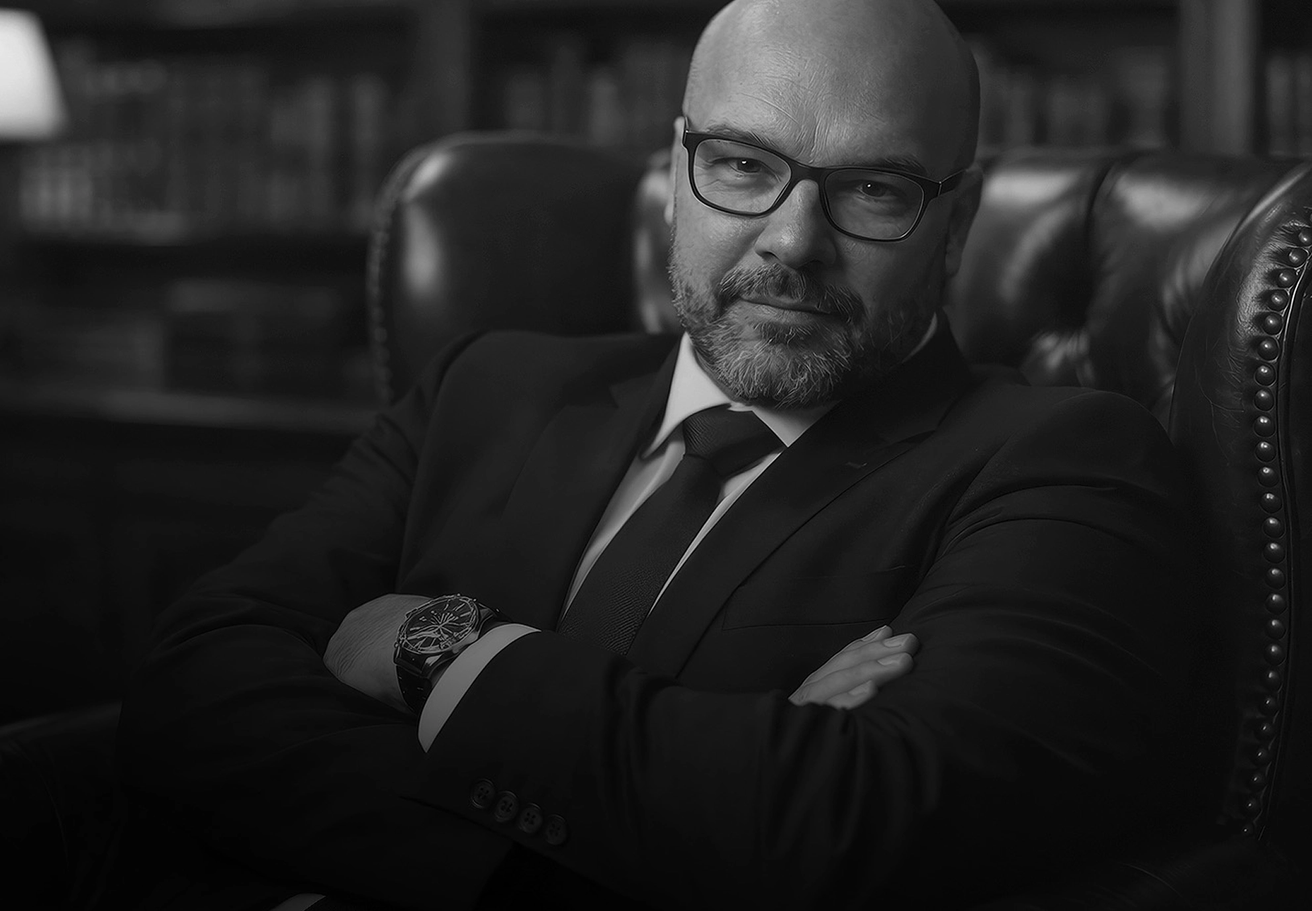
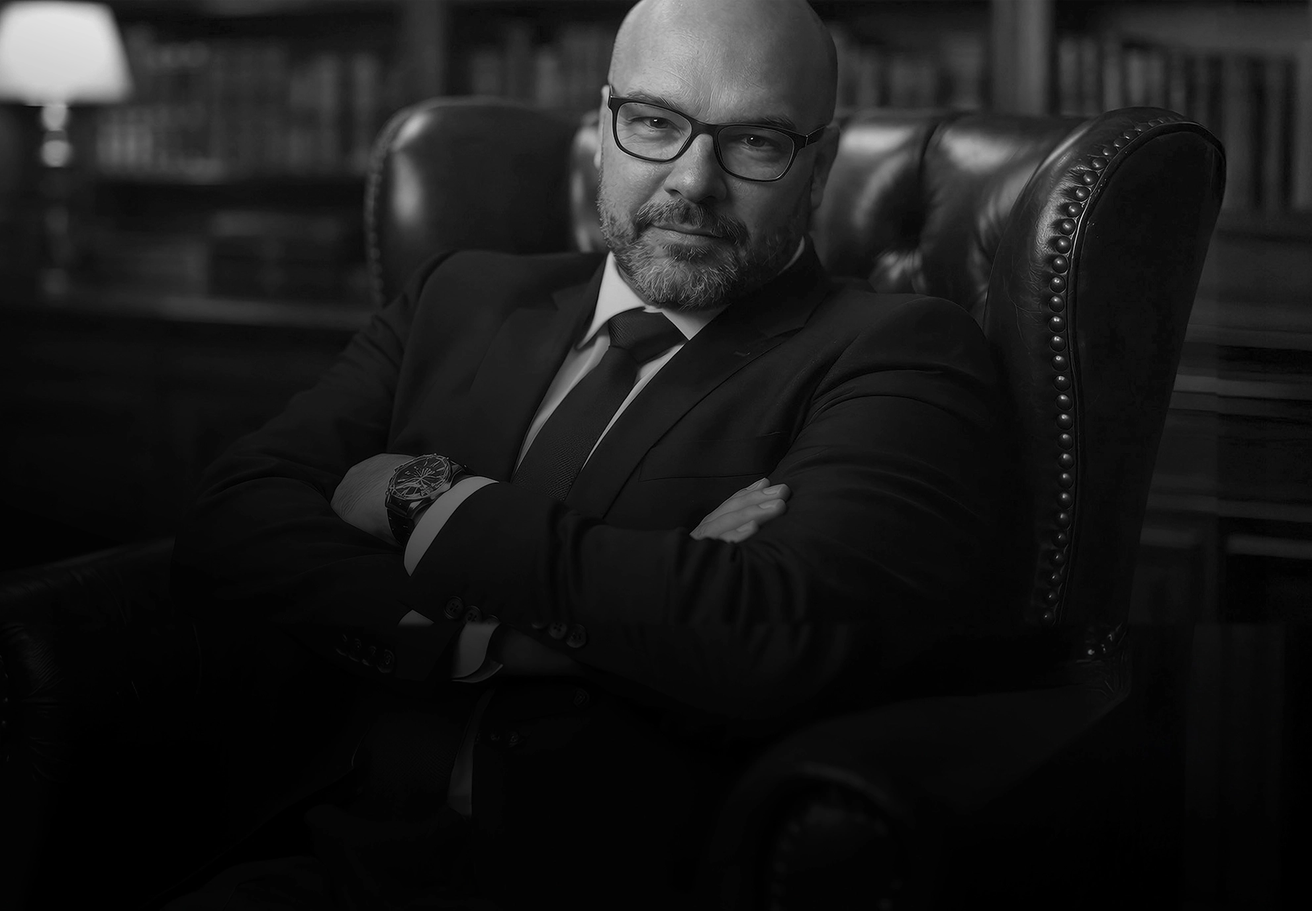
refactor: update responsive design and improve layout structure in index.html and main.css; adjust Tailwind configuration for better styling

diff --git a/dist/main.css b/dist/main.css
@@ -1,2 +1,2 @@
 /*! tailwindcss v4.2.2 | MIT License | https://tailwindcss.com */
-@layer properties{@supports (((-webkit-hyphens:none)) and (not (margin-trim:inline))) or ((-moz-orient:inline) and (not (color:rgb(from red r g b)))){*,:before,:after,::backdrop{--tw-border-style:solid;--tw-font-weight:initial;--tw-tracking:initial}}}@layer theme{:root,:host{--font-sans:ui-sans-serif, system-ui, sans-serif, "Apple Color Emoji", "Segoe UI Emoji", "Segoe UI Symbol", "Noto Color Emoji";--font-mono:ui-monospace, SFMono-Regular, Menlo, Monaco, Consolas, "Liberation Mono", "Courier New", monospace;--color-white:#fff;--spacing:.25rem;--container-xl:36rem;--font-weight-normal:400;--font-weight-medium:500;--font-weight-semibold:600;--font-weight-bold:700;--radius-lg:.5rem;--default-font-family:var(--font-sans);--default-mono-font-family:var(--font-mono)}}@layer base{*,:after,:before,::backdrop{box-sizing:border-box;border:0 solid;margin:0;padding:0}::file-selector-button{box-sizing:border-box;border:0 solid;margin:0;padding:0}html,:host{-webkit-text-size-adjust:100%;tab-size:4;line-height:1.5;font-family:var(--default-font-family,ui-sans-serif, system-ui, sans-serif, "Apple Color Emoji", "Segoe UI Emoji", "Segoe UI Symbol", "Noto Color Emoji");font-feature-settings:var(--default-font-feature-settings,normal);font-variation-settings:var(--default-font-variation-settings,normal);-webkit-tap-highlight-color:transparent}hr{height:0;color:inherit;border-top-width:1px}abbr:where([title]){-webkit-text-decoration:underline dotted;text-decoration:underline dotted}h1,h2,h3,h4,h5,h6{font-size:inherit;font-weight:inherit}a{color:inherit;-webkit-text-decoration:inherit;-webkit-text-decoration:inherit;-webkit-text-decoration:inherit;text-decoration:inherit}b,strong{font-weight:bolder}code,kbd,samp,pre{font-family:var(--default-mono-font-family,ui-monospace, SFMono-Regular, Menlo, Monaco, Consolas, "Liberation Mono", "Courier New", monospace);font-feature-settings:var(--default-mono-font-feature-settings,normal);font-variation-settings:var(--default-mono-font-variation-settings,normal);font-size:1em}small{font-size:80%}sub,sup{vertical-align:baseline;font-size:75%;line-height:0;position:relative}sub{bottom:-.25em}sup{top:-.5em}table{text-indent:0;border-color:inherit;border-collapse:collapse}:-moz-focusring{outline:auto}progress{vertical-align:baseline}summary{display:list-item}ol,ul,menu{list-style:none}img,svg,video,canvas,audio,iframe,embed,object{vertical-align:middle;display:block}img,video{max-width:100%;height:auto}button,input,select,optgroup,textarea{font:inherit;font-feature-settings:inherit;font-variation-settings:inherit;letter-spacing:inherit;color:inherit;opacity:1;background-color:#0000;border-radius:0}::file-selector-button{font:inherit;font-feature-settings:inherit;font-variation-settings:inherit;letter-spacing:inherit;color:inherit;opacity:1;background-color:#0000;border-radius:0}:where(select:is([multiple],[size])) optgroup{font-weight:bolder}:where(select:is([multiple],[size])) optgroup option{padding-inline-start:20px}::file-selector-button{margin-inline-end:4px}::placeholder{opacity:1}@supports (not ((-webkit-appearance:-apple-pay-button))) or (contain-intrinsic-size:1px){::placeholder{color:currentColor}@supports (color:color-mix(in lab, red, red)){::placeholder{color:color-mix(in oklab, currentcolor 50%, transparent)}}}textarea{resize:vertical}::-webkit-search-decoration{-webkit-appearance:none}::-webkit-date-and-time-value{min-height:1lh;text-align:inherit}::-webkit-datetime-edit{display:inline-flex}::-webkit-datetime-edit-fields-wrapper{padding:0}::-webkit-datetime-edit{padding-block:0}::-webkit-datetime-edit-year-field{padding-block:0}::-webkit-datetime-edit-month-field{padding-block:0}::-webkit-datetime-edit-day-field{padding-block:0}::-webkit-datetime-edit-hour-field{padding-block:0}::-webkit-datetime-edit-minute-field{padding-block:0}::-webkit-datetime-edit-second-field{padding-block:0}::-webkit-datetime-edit-millisecond-field{padding-block:0}::-webkit-datetime-edit-meridiem-field{padding-block:0}::-webkit-calendar-picker-indicator{line-height:1}:-moz-ui-invalid{box-shadow:none}button,input:where([type=button],[type=reset],[type=submit]){appearance:button}::file-selector-button{appearance:button}::-webkit-inner-spin-button{height:auto}::-webkit-outer-spin-button{height:auto}[hidden]:where(:not([hidden=until-found])){display:none!important}}@layer components;@layer utilities{.start{inset-inline-start:var(--spacing)}.mx-auto{margin-inline:auto}.mt-1{margin-top:calc(var(--spacing) * 1)}.mt-3{margin-top:calc(var(--spacing) * 3)}.mt-6{margin-top:calc(var(--spacing) * 6)}.mt-8{margin-top:calc(var(--spacing) * 8)}.mr-2{margin-right:calc(var(--spacing) * 2)}.mb-0{margin-bottom:calc(var(--spacing) * 0)}.mb-0\!{margin-bottom:calc(var(--spacing) * 0)!important}.mb-1{margin-bottom:calc(var(--spacing) * 1)}.mb-2{margin-bottom:calc(var(--spacing) * 2)}.mb-2\.5{margin-bottom:calc(var(--spacing) * 2.5)}.mb-4{margin-bottom:calc(var(--spacing) * 4)}.mb-5{margin-bottom:calc(var(--spacing) * 5)}.mb-6{margin-bottom:calc(var(--spacing) * 6)}.mb-8{margin-bottom:calc(var(--spacing) * 8)}.mb-10{margin-bottom:calc(var(--spacing) * 10)}.flex{display:flex}.hidden{display:none}.min-h-172{min-height:calc(var(--spacing) * 172)}.max-w-275{max-width:calc(var(--spacing) * 275)}.max-w-xl{max-width:var(--container-xl)}.shrink-0{flex-shrink:0}.items-center{align-items:center}.justify-between{justify-content:space-between}.gap-2{gap:calc(var(--spacing) * 2)}.overflow-hidden{overflow:hidden}.border{border-style:var(--tw-border-style);border-width:1px}.bg-brand-gray{background-color:#f2f2f2}.bg-brand-gray-dark{background-color:#4f4f4f}.bg-brand-gray-mid{background-color:#e0e0e0}.bg-white{background-color:var(--color-white)}.px-8{padding-inline:calc(var(--spacing) * 8)}.py-12{padding-block:calc(var(--spacing) * 12)}.pt-84{padding-top:calc(var(--spacing) * 84)}.pb-12{padding-bottom:calc(var(--spacing) * 12)}.font-inter{font-family:Inter,system-ui,-apple-system}.text-h1{font-size:40px;line-height:var(--tw-leading,48px);font-weight:var(--tw-font-weight,700)}.text-h2{font-size:32px;line-height:var(--tw-leading,38px);font-weight:var(--tw-font-weight,700)}.text-h3{font-size:24px;line-height:var(--tw-leading,32px);font-weight:var(--tw-font-weight,700)}.text-h4{font-size:18px;line-height:var(--tw-leading,28px);font-weight:var(--tw-font-weight,600)}.text-h6{font-size:14px;line-height:var(--tw-leading,20px);font-weight:var(--tw-font-weight,500)}.text-body{font-size:16px;line-height:var(--tw-leading,24px)}.text-caption{font-size:12px;line-height:var(--tw-leading,20px)}.font-bold{--tw-font-weight:var(--font-weight-bold);font-weight:var(--font-weight-bold)}.font-normal{--tw-font-weight:var(--font-weight-normal);font-weight:var(--font-weight-normal)}.font-semibold{--tw-font-weight:var(--font-weight-semibold);font-weight:var(--font-weight-semibold)}.tracking-\[0\.1px\]{--tw-tracking:.1px;letter-spacing:.1px}.text-brand-dark{color:#333}.text-brand-gray-dark{color:#4f4f4f}.text-white{color:var(--color-white)}.underline{text-decoration-line:underline}@media (hover:hover){.hover\:text-brand-green:hover{color:#219653}.hover\:underline:hover{text-decoration-line:underline}}@media (min-width:62rem){.stage2\:-order-1{order:calc(1 * -1)}.stage2\:mt-0{margin-top:calc(var(--spacing) * 0)}.stage2\:mr-2{margin-right:calc(var(--spacing) * 2)}.stage2\:block{display:block}.stage2\:hidden{display:none}.stage2\:h-6{height:calc(var(--spacing) * 6)}.stage2\:w-6{width:calc(var(--spacing) * 6)}.stage2\:max-w-1\/2{max-width:50%}.stage2\:justify-normal{justify-content:normal}}}.header{background-image:-webkit-image-set(url(../images/header-mobile-991px.webp?v=1) 1x,url(../images/header-mobile-991px-ret.webp?v=1) 2x);background-image:image-set("../images/header-mobile-991px.webp?v=1" 1x,"../images/header-mobile-991px-ret.webp?v=1" 2x);background-position:50%;background-repeat:no-repeat;background-size:cover}@media (min-width:62rem){.header{background-image:-webkit-image-set(url(../images/header-desktop-1920px.webp?v=1) 1x,url(../images/header-desktop-1920px-ret.webp?v=1) 2x);background-image:image-set("../images/header-desktop-1920px.webp?v=1" 1x,"../images/header-desktop-1920px-ret.webp?v=1" 2x)}.header-inner{max-width:30%}}.badge{margin-right:calc(var(--spacing) * 2);border-radius:var(--radius-lg);padding-inline:calc(var(--spacing) * 3);padding-block:calc(var(--spacing) * 1);font-size:14px;line-height:var(--tw-leading,20px);font-weight:var(--tw-font-weight,500);--tw-font-weight:var(--font-weight-medium);font-weight:var(--font-weight-medium);display:inline-block}.badge:last-child{margin-right:calc(var(--spacing) * 0)}.badge{background-color:#21965366}.card{margin-bottom:calc(var(--spacing) * 6);border-radius:var(--radius-lg);border-style:var(--tw-border-style);background-color:var(--color-white);padding:calc(var(--spacing) * 6);padding-top:calc(var(--spacing) * 8);padding-bottom:calc(var(--spacing) * 12);border-width:1px;border-color:#219653}.card.primary{background-color:#2dcb481a}.button{border-radius:var(--radius-lg);padding-inline:calc(var(--spacing) * 5);padding-block:calc(var(--spacing) * 3);font-size:16px;line-height:var(--tw-leading,24px);font-weight:var(--tw-font-weight,600);--tw-font-weight:var(--font-weight-medium);font-weight:var(--font-weight-medium);color:var(--color-white);background-color:#219653;transition:background-color .2s;display:inline-block}.button:hover{background-color:#00642b}.bullet-list{padding-left:0;list-style:none}.bullet-list li{padding-left:1.5rem;position:relative}.bullet-list li:before{content:"»";color:#219653;position:absolute;left:0}.text-text{font-size:16px;line-height:var(--tw-leading,24px);--tw-tracking:.1px;letter-spacing:.1px;color:#333}.chess-image{background-image:-webkit-image-set(url(../images/chess-mobile-991px.webp?v=1) 1x,url(../images/chess-mobile-991px-ret.webp?v=1) 2x);background-image:image-set("../images/chess-mobile-991px.webp?v=1" 1x,"../images/chess-mobile-991px-ret.webp?v=1" 2x);background-position:50%;background-repeat:no-repeat;background-size:cover;width:100%;min-height:360px}@media (min-width:62rem){.chess-image{background-image:-webkit-image-set(url(../images/chess-desktop-1920px.webp?v=1) 1x,url(../images/chess-desktop-1920px-ret.webp?v=1) 2x);background-image:image-set("../images/chess-desktop-1920px.webp?v=1" 1x,"../images/chess-desktop-1920px-ret.webp?v=1" 2x);min-height:100%}}.seal-image{background-image:-webkit-image-set(url(../images/seal-desktop-1920px.webp?v=1) 1x,url(../images/seal-desktop-1920px-ret.webp?v=1) 2x);background-image:image-set("../images/seal-desktop-1920px.webp?v=1" 1x,"../images/seal-desktop-1920px-ret.webp?v=1" 2x);background-position:50%;background-repeat:no-repeat;background-size:contain;width:100%;min-height:400px}@media (min-width:62rem){.seal-image{background-size:85%;min-height:380px}}.section-inner{max-width:calc(var(--spacing) * 275);margin-inline:auto}.bio-layout{display:block}@media (min-width:62rem){.bio-layout{grid-template-columns:1fr 1fr;align-items:stretch;gap:0;display:grid}}.services-grid{grid-template-columns:1fr;gap:1.5rem;display:grid}@media (min-width:40rem){.services-grid{grid-template-columns:repeat(2,1fr)}}@media (min-width:62rem){.services-grid{grid-template-columns:repeat(4,1fr)}.services-grid .card{margin-bottom:0}}.process-grid{grid-template-columns:1fr;gap:1.5rem;display:grid}@media (min-width:62rem){.process-grid{grid-template-columns:repeat(3,1fr)}.process-grid .card{margin-bottom:0}}.fees-layout{display:block}@media (min-width:62rem){.fees-layout{grid-template-columns:1fr 1fr;align-items:center;gap:4rem;display:grid}}.contact-grid{display:block}@media (min-width:62rem){.contact-grid{grid-template-columns:repeat(3,1fr);gap:3rem;display:grid}}@property --tw-border-style{syntax:"*";inherits:false;initial-value:solid}@property --tw-font-weight{syntax:"*";inherits:false}@property --tw-tracking{syntax:"*";inherits:false}
+@layer properties{@supports (((-webkit-hyphens:none)) and (not (margin-trim:inline))) or ((-moz-orient:inline) and (not (color:rgb(from red r g b)))){*,:before,:after,::backdrop{--tw-border-style:solid;--tw-font-weight:initial;--tw-tracking:initial}}}@layer theme{:root,:host{--font-sans:ui-sans-serif, system-ui, sans-serif, "Apple Color Emoji", "Segoe UI Emoji", "Segoe UI Symbol", "Noto Color Emoji";--font-mono:ui-monospace, SFMono-Regular, Menlo, Monaco, Consolas, "Liberation Mono", "Courier New", monospace;--color-white:#fff;--spacing:.25rem;--font-weight-normal:400;--font-weight-medium:500;--font-weight-semibold:600;--font-weight-bold:700;--radius-lg:.5rem;--default-font-family:var(--font-sans);--default-mono-font-family:var(--font-mono)}}@layer base{*,:after,:before,::backdrop{box-sizing:border-box;border:0 solid;margin:0;padding:0}::file-selector-button{box-sizing:border-box;border:0 solid;margin:0;padding:0}html,:host{-webkit-text-size-adjust:100%;tab-size:4;line-height:1.5;font-family:var(--default-font-family,ui-sans-serif, system-ui, sans-serif, "Apple Color Emoji", "Segoe UI Emoji", "Segoe UI Symbol", "Noto Color Emoji");font-feature-settings:var(--default-font-feature-settings,normal);font-variation-settings:var(--default-font-variation-settings,normal);-webkit-tap-highlight-color:transparent}hr{height:0;color:inherit;border-top-width:1px}abbr:where([title]){-webkit-text-decoration:underline dotted;text-decoration:underline dotted}h1,h2,h3,h4,h5,h6{font-size:inherit;font-weight:inherit}a{color:inherit;-webkit-text-decoration:inherit;-webkit-text-decoration:inherit;-webkit-text-decoration:inherit;text-decoration:inherit}b,strong{font-weight:bolder}code,kbd,samp,pre{font-family:var(--default-mono-font-family,ui-monospace, SFMono-Regular, Menlo, Monaco, Consolas, "Liberation Mono", "Courier New", monospace);font-feature-settings:var(--default-mono-font-feature-settings,normal);font-variation-settings:var(--default-mono-font-variation-settings,normal);font-size:1em}small{font-size:80%}sub,sup{vertical-align:baseline;font-size:75%;line-height:0;position:relative}sub{bottom:-.25em}sup{top:-.5em}table{text-indent:0;border-color:inherit;border-collapse:collapse}:-moz-focusring{outline:auto}progress{vertical-align:baseline}summary{display:list-item}ol,ul,menu{list-style:none}img,svg,video,canvas,audio,iframe,embed,object{vertical-align:middle;display:block}img,video{max-width:100%;height:auto}button,input,select,optgroup,textarea{font:inherit;font-feature-settings:inherit;font-variation-settings:inherit;letter-spacing:inherit;color:inherit;opacity:1;background-color:#0000;border-radius:0}::file-selector-button{font:inherit;font-feature-settings:inherit;font-variation-settings:inherit;letter-spacing:inherit;color:inherit;opacity:1;background-color:#0000;border-radius:0}:where(select:is([multiple],[size])) optgroup{font-weight:bolder}:where(select:is([multiple],[size])) optgroup option{padding-inline-start:20px}::file-selector-button{margin-inline-end:4px}::placeholder{opacity:1}@supports (not ((-webkit-appearance:-apple-pay-button))) or (contain-intrinsic-size:1px){::placeholder{color:currentColor}@supports (color:color-mix(in lab, red, red)){::placeholder{color:color-mix(in oklab, currentcolor 50%, transparent)}}}textarea{resize:vertical}::-webkit-search-decoration{-webkit-appearance:none}::-webkit-date-and-time-value{min-height:1lh;text-align:inherit}::-webkit-datetime-edit{display:inline-flex}::-webkit-datetime-edit-fields-wrapper{padding:0}::-webkit-datetime-edit{padding-block:0}::-webkit-datetime-edit-year-field{padding-block:0}::-webkit-datetime-edit-month-field{padding-block:0}::-webkit-datetime-edit-day-field{padding-block:0}::-webkit-datetime-edit-hour-field{padding-block:0}::-webkit-datetime-edit-minute-field{padding-block:0}::-webkit-datetime-edit-second-field{padding-block:0}::-webkit-datetime-edit-millisecond-field{padding-block:0}::-webkit-datetime-edit-meridiem-field{padding-block:0}::-webkit-calendar-picker-indicator{line-height:1}:-moz-ui-invalid{box-shadow:none}button,input:where([type=button],[type=reset],[type=submit]){appearance:button}::file-selector-button{appearance:button}::-webkit-inner-spin-button{height:auto}::-webkit-outer-spin-button{height:auto}[hidden]:where(:not([hidden=until-found])){display:none!important}}@layer components;@layer utilities{.start{inset-inline-start:var(--spacing)}.mx-auto{margin-inline:auto}.mt-1{margin-top:calc(var(--spacing) * 1)}.mt-3{margin-top:calc(var(--spacing) * 3)}.mt-4{margin-top:calc(var(--spacing) * 4)}.mt-6{margin-top:calc(var(--spacing) * 6)}.mt-8{margin-top:calc(var(--spacing) * 8)}.mr-2{margin-right:calc(var(--spacing) * 2)}.mb-0{margin-bottom:calc(var(--spacing) * 0)}.mb-0\!{margin-bottom:calc(var(--spacing) * 0)!important}.mb-1{margin-bottom:calc(var(--spacing) * 1)}.mb-2{margin-bottom:calc(var(--spacing) * 2)}.mb-2\.5{margin-bottom:calc(var(--spacing) * 2.5)}.mb-4{margin-bottom:calc(var(--spacing) * 4)}.mb-5{margin-bottom:calc(var(--spacing) * 5)}.mb-6{margin-bottom:calc(var(--spacing) * 6)}.mb-8{margin-bottom:calc(var(--spacing) * 8)}.mb-10{margin-bottom:calc(var(--spacing) * 10)}.flex{display:flex}.hidden{display:none}.min-h-172{min-height:calc(var(--spacing) * 172)}.max-w-275{max-width:calc(var(--spacing) * 275)}.shrink-0{flex-shrink:0}.items-center{align-items:center}.justify-between{justify-content:space-between}.gap-2{gap:calc(var(--spacing) * 2)}.overflow-hidden{overflow:hidden}.border{border-style:var(--tw-border-style);border-width:1px}.bg-brand-gray{background-color:#f2f2f2}.bg-brand-gray-dark{background-color:#4f4f4f}.bg-brand-gray-mid{background-color:#e0e0e0}.bg-white{background-color:var(--color-white)}.px-8{padding-inline:calc(var(--spacing) * 8)}.py-12{padding-block:calc(var(--spacing) * 12)}.pt-84{padding-top:calc(var(--spacing) * 84)}.pb-12{padding-bottom:calc(var(--spacing) * 12)}.font-inter{font-family:Inter,system-ui,-apple-system}.text-h2{font-size:32px;line-height:var(--tw-leading,38px);font-weight:var(--tw-font-weight,700)}.text-h3{font-size:24px;line-height:var(--tw-leading,32px);font-weight:var(--tw-font-weight,700)}.text-h4{font-size:18px;line-height:var(--tw-leading,28px);font-weight:var(--tw-font-weight,600)}.text-h6{font-size:14px;line-height:var(--tw-leading,20px);font-weight:var(--tw-font-weight,500)}.text-body{font-size:16px;line-height:var(--tw-leading,24px)}.text-caption{font-size:12px;line-height:var(--tw-leading,20px)}.font-bold{--tw-font-weight:var(--font-weight-bold);font-weight:var(--font-weight-bold)}.font-normal{--tw-font-weight:var(--font-weight-normal);font-weight:var(--font-weight-normal)}.font-semibold{--tw-font-weight:var(--font-weight-semibold);font-weight:var(--font-weight-semibold)}.tracking-\[0\.1px\]{--tw-tracking:.1px;letter-spacing:.1px}.text-brand-dark{color:#333}.text-brand-gray-dark{color:#4f4f4f}.text-white{color:var(--color-white)}.underline{text-decoration-line:underline}@media (hover:hover){.hover\:text-brand-green:hover{color:#219653}.hover\:underline:hover{text-decoration-line:underline}}@media (min-width:992px){.stage2\:-order-1{order:calc(1 * -1)}.stage2\:my-12{margin-block:calc(var(--spacing) * 12)}.stage2\:mr-2{margin-right:calc(var(--spacing) * 2)}.stage2\:block{display:block}.stage2\:hidden{display:none}.stage2\:h-6{height:calc(var(--spacing) * 6)}.stage2\:w-6{width:calc(var(--spacing) * 6)}.stage2\:max-w-1\/2{max-width:50%}.stage2\:justify-normal{justify-content:normal}.stage2\:px-16{padding-inline:calc(var(--spacing) * 16)}.stage2\:text-display{font-size:56px;line-height:var(--tw-leading,65px);letter-spacing:var(--tw-tracking,-1px);font-weight:var(--tw-font-weight,700)}}@media (min-width:1440px){.special\:px-0{padding-inline:calc(var(--spacing) * 0)}}}.header{background-image:-webkit-image-set(url(../images/header-mobile-991px.webp?v=1) 1x,url(../images/header-mobile-991px-ret.webp?v=1) 2x);background-image:image-set("../images/header-mobile-991px.webp?v=1" 1x,"../images/header-mobile-991px-ret.webp?v=1" 2x);background-position:50%;background-repeat:no-repeat;background-size:cover}@media (min-width:62rem){.header{background-image:-webkit-image-set(url(../images/header-desktop-1920px.webp?v=1) 1x,url(../images/header-desktop-1920px-ret.webp?v=1) 2x);background-image:image-set("../images/header-desktop-1920px.webp?v=1" 1x,"../images/header-desktop-1920px-ret.webp?v=1" 2x)}.header-inner{max-width:30%}}.badge{margin-right:calc(var(--spacing) * 2);border-radius:var(--radius-lg);padding-inline:calc(var(--spacing) * 3);padding-block:calc(var(--spacing) * 1);font-size:14px;line-height:var(--tw-leading,20px);font-weight:var(--tw-font-weight,500);--tw-font-weight:var(--font-weight-medium);font-weight:var(--font-weight-medium);display:inline-block}.badge:last-child{margin-right:calc(var(--spacing) * 0)}.badge{background-color:#21965366}.card{border-radius:var(--radius-lg);border-style:var(--tw-border-style);background-color:var(--color-white);padding:calc(var(--spacing) * 6);padding-top:calc(var(--spacing) * 8);padding-bottom:calc(var(--spacing) * 12);border-width:1px;border-color:#219653}.card.primary{background-color:#2dcb481a}.button{border-radius:var(--radius-lg);padding-inline:calc(var(--spacing) * 5);padding-block:calc(var(--spacing) * 3);font-size:16px;line-height:var(--tw-leading,24px);font-weight:var(--tw-font-weight,600);--tw-font-weight:var(--font-weight-medium);font-weight:var(--font-weight-medium);color:var(--color-white);background-color:#219653;transition:background-color .2s;display:inline-block}.button:hover{background-color:#00642b}.bullet-list{padding-left:0;list-style:none}.bullet-list li{padding-left:1.5rem;position:relative}.bullet-list li:before{content:"»";color:#219653;position:absolute;left:0}.text-text{font-size:16px;line-height:var(--tw-leading,24px);--tw-tracking:.1px;letter-spacing:.1px;color:#333}.chess-image{background-image:-webkit-image-set(url(../images/chess-mobile-991px.webp?v=1) 1x,url(../images/chess-mobile-991px-ret.webp?v=1) 2x);background-image:image-set("../images/chess-mobile-991px.webp?v=1" 1x,"../images/chess-mobile-991px-ret.webp?v=1" 2x);background-position:50%;background-repeat:no-repeat;background-size:cover;width:100%;min-height:360px}@media (min-width:992px){.chess-image-desktop{background-image:-webkit-image-set(url(../images/chess-desktop-1920px.webp?v=1) 1x,url(../images/chess-desktop-1920px-ret.webp?v=1) 2x);background-image:image-set("../images/chess-desktop-1920px.webp?v=1" 1x,"../images/chess-desktop-1920px-ret.webp?v=1" 2x);background-position:50%;background-repeat:no-repeat;width:100%;min-height:465px}}.seal-image-desktop{background-position:50%;background-repeat:no-repeat;width:100%}@media (min-width:992px){.seal-image-desktop{background-image:-webkit-image-set(url(../images/seal-desktop-1920px.webp?v=1) 1x,url(../images/seal-desktop-1920px-ret.webp?v=1) 2x);background-image:image-set("../images/seal-desktop-1920px.webp?v=1" 1x,"../images/seal-desktop-1920px-ret.webp?v=1" 2x);min-height:430px}}.section-inner{max-width:calc(var(--spacing) * 275);margin-inline:auto}.bio-layout{display:block}@media (min-width:992px){.bio-text{max-width:calc(var(--spacing) * 105)}}@media (min-width:1440px){@media (min-width:992px){.bio-text{max-width:calc(var(--spacing) * 135)}}}.services-grid{grid-template-columns:1fr;gap:24px;display:grid}@media (min-width:992px){.services-grid{grid-template-columns:repeat(2,1fr)}}@media (min-width:1440px){.services-grid{grid-template-columns:repeat(4,1fr)}.services-grid .card{margin-bottom:0}}.process-grid{grid-template-columns:1fr;gap:1.5rem;display:grid}@media (min-width:992px){.process-grid{grid-template-columns:repeat(3,1fr)}.process-grid .card{margin-bottom:0}}.fees-layout{display:block}@media (min-width:62rem){.fees-layout{grid-template-columns:1fr 1fr;align-items:center;gap:4rem;display:grid}}.contact-grid{display:block}@media (min-width:62rem){.contact-grid{grid-template-columns:repeat(3,1fr);gap:3rem;display:grid}}@property --tw-border-style{syntax:"*";inherits:false;initial-value:solid}@property --tw-font-weight{syntax:"*";inherits:false}@property --tw-tracking{syntax:"*";inherits:false}

diff --git a/index.html b/index.html
@@ -46,18 +46,21 @@
   <body class="font-inter">
     <main class="">
       <!-- ══ HERO ══════════════════════════════════════════ -->
-      <header class="header text-white px-8 pb-12 pt-84 min-h-172">
+      <header class="header text-white px-8 stage2:px-16 pb-12 pt-84 min-h-172">
         <div class="max-w-275 mx-auto">
-          <div class="header-inner stage2:max-w-1/2">
-            <h1 class="text-h1 mb-5">Synek Legal advokátní kancelář</h1>
+          <div class="stage2:max-w-1/2">
+            <h1 class="text-h2 stage2:text-display mb-5">
+              Synek Legal advokátní kancelář
+            </h1>
             <div class="mb-5">
               <span class="badge">Trestní právo</span>
               <span class="badge">Rodina</span>
               <span class="badge">Nemovitosti</span>
             </div>
             <p class="text-body mb-10 tracking-[0.1px]">
-              Pomůžeme vám zorientovat se a navrhneme další postup. Vysvětlíme
-              možnosti i rizika, srozumitelně a na rovinu.
+              Pomůžeme vám zorientovat se a navrhneme další postup.
+              <br class="hidden stage2:block" />
+              Vysvětlíme možnosti i rizika, srozumitelně a na rovinu.
             </p>
             <a class="button" href="#kontakt">S čím vám můžeme pomoct</a>
           </div>
@@ -65,38 +68,42 @@
       </header>
 
       <!-- ══ BIO ════════════════════════════════════════════ -->
-      <section class="mb-0 overflow-hidden section-inner">
-        <div class="bio-layout">
-          <!-- Text — vlevo na desktopu -->
-          <div class="px-8 py-12 bg-white">
-            <div class="chess-image mb-6 stage2:hidden"></div>
-            <div class="max-w-xl">
-              <p class="text-text">
-                <strong class="font-semibold"
-                  >Jsem advokát s více než 20 lety praxe. Pomáhám lidem i firmám
-                  v situacích, kdy je potřeba se rychle zorientovat, mít jasno v
-                  možnostech a zvolit správný další krok.</strong
-                >
-                <br /><br />
-                Vše vysvětluji srozumitelně a přímo, co je možné udělat, jaká
-                jsou rizika a jaký postup považuji za nejrozumnější. Je-li to
-                potřeba, převezmu komunikaci i jednání za vás a dohlédnu na to,
-                aby vše proběhlo správně.
-                <br /><br />
-                Ozvěte se i ve chvíli, kdy si nejste jistí, zda už je to „na
-                právníka". Stručně si řekneme, co řešíte, a domluvíme se na
-                dalším postupu, osobně nebo na dálku.
-                <br /><br />
-              </p>
-              <div class="text-h3 font-semibold">Mgr. Miroslav Synek</div>
-              <p class="text-text mt-1">Advokát od 2002 • ČAK 09503</p>
+      <div class="chess-image-desktop">
+        <div class="chess-image mt-4 mb-6 stage2:hidden"></div>
+        <section
+          class="mb-0 overflow-hidden section-inner px-8 stage2:px-16 special:px-0 stage2:my-12"
+        >
+          <div class="bio-layout">
+            <!-- Text — vlevo na desktopu -->
+            <div class="pb-12 bg-white bio-text">
+              <div class="">
+                <p class="text-text">
+                  <strong class="font-semibold"
+                    >Jsem advokát s více než 20 lety praxe. Pomáhám lidem i
+                    firmám v situacích, kdy je potřeba se rychle zorientovat,
+                    mít jasno v možnostech a zvolit správný další krok.</strong
+                  >
+                  <br /><br />
+                  Vše vysvětluji srozumitelně a přímo, co je možné udělat, jaká
+                  jsou rizika a jaký postup považuji za nejrozumnější. Je-li to
+                  potřeba, převezmu komunikaci i jednání za vás a dohlédnu na
+                  to, aby vše proběhlo správně.
+                  <br /><br />
+                  Ozvěte se i ve chvíli, kdy si nejste jistí, zda už je to „na
+                  právníka". Stručně si řekneme, co řešíte, a domluvíme se na
+                  dalším postupu, osobně nebo na dálku.
+                  <br /><br />
+                </p>
+                <div class="text-h3 font-semibold">Mgr. Miroslav Synek</div>
+                <p class="text-text mt-1">Advokát od 2002 • ČAK 09503</p>
+              </div>
             </div>
           </div>
-        </div>
-      </section>
+        </section>
+      </div>
 
       <!-- ══ SERVICES ═══════════════════════════════════════ -->
-      <section class="px-8 py-12 bg-brand-gray">
+      <section class="px-8 stage2:px-16 py-12 bg-brand-gray">
         <div class="section-inner">
           <h2 class="text-h2 font-bold mb-2">S čím vám pomůžeme</h2>
           <div class="mb-6 tracking-[0.1px]">
@@ -259,7 +266,7 @@
       </section>
 
       <!-- ══ PROCESS ═════════════════════════════════════════ -->
-      <section class="px-8 bg-white py-12">
+      <section class="px-8 stage2:px-16 bg-white py-12">
         <div class="section-inner">
           <h2 class="text-h2 font-bold mb-2">Jak to probíhá</h2>
           <div class="mb-6 tracking-[0.1px]">
@@ -363,7 +370,7 @@
       </section>
 
       <!-- ══ FEES ════════════════════════════════════════════ -->
-      <section class="px-8 bg-brand-gray py-12">
+      <section class="px-8 stage2:px-16 bg-brand-gray py-12 seal-image-desktop">
         <div class="section-inner">
           <div class="fees-layout">
             <!-- Text vlevo -->
@@ -386,17 +393,12 @@
                 dopředu, na čem jste. Předem si řekneme odhad a rozsah práce.
               </p>
             </div>
-            <!-- Seal foto vpravo -->
-            <div
-              class="seal-image mt-8 stage2:mt-0 hidden stage2:block"
-              style="min-height: 320px; background-position: center center"
-            ></div>
           </div>
         </div>
       </section>
 
       <!-- ══ DOWNLOAD BANNER ════════════════════════════════ -->
-      <section class="px-8 bg-brand-gray-mid py-12">
+      <section class="px-8 stage2:px-16 bg-brand-gray-mid py-12">
         <div class="section-inner">
           <div class="flex justify-between items-center stage2:justify-normal">
             <a
@@ -444,7 +446,7 @@
       <!-- ══ FOOTER / KONTAKT ════════════════════════════════ -->
       <footer
         id="kontakt"
-        class="px-8 bg-brand-gray-dark py-12 text-white font-normal"
+        class="px-8 stage2:px-16 bg-brand-gray-dark py-12 text-white font-normal"
       >
         <div class="section-inner">
           <h2 class="text-h2 mb-2">Kontakt</h2>

diff --git a/main.css b/main.css
@@ -2,8 +2,9 @@
 @import "tailwindcss";
 
 @theme {
-  --breakpoint-stage2: 62rem;
-  --breakpoint-stage3: 120rem;
+  --breakpoint-stage2: 992px;
+  --breakpoint-stage3: 1920px;
+  --breakpoint-special: 1440px;
 }
 
 /* ── HEADER ─────────────────────────────────── */
@@ -48,7 +49,7 @@
 
 /* ── CARDS ───────────────────────────────────── */
 .card {
-  @apply bg-white rounded-lg p-6 pt-8 pb-12 border-brand-green border mb-6;
+  @apply bg-white rounded-lg p-6 pt-8 pb-12 border-brand-green border;
 
   &.primary {
     background-color: rgba(45, 203, 72, 0.1);
@@ -105,9 +106,12 @@
   );
 }
 
-@media (min-width: 62rem) {
-  .chess-image {
-    min-height: 100%;
+@media (min-width: 992px) {
+  .chess-image-desktop {
+    width: 100%;
+    min-height: 465px;
+    background-repeat: no-repeat;
+    background-position: center;
     background-image: -webkit-image-set(
       url("../images/chess-desktop-1920px.webp?v=1") 1x,
       url("../images/chess-desktop-1920px-ret.webp?v=1") 2x
@@ -120,26 +124,23 @@
 }
 
 /* ── SEAL IMAGE ──────────────────────────────── */
-.seal-image {
+.seal-image-desktop {
   width: 100%;
-  min-height: 400px;
   background-repeat: no-repeat;
-  background-size: contain;
   background-position: center center;
-  background-image: -webkit-image-set(
-    url("../images/seal-desktop-1920px.webp?v=1") 1x,
-    url("../images/seal-desktop-1920px-ret.webp?v=1") 2x
-  );
-  background-image: image-set(
-    url("../images/seal-desktop-1920px.webp?v=1") 1x,
-    url("../images/seal-desktop-1920px-ret.webp?v=1") 2x
-  );
 }
 
-@media (min-width: 62rem) {
-  .seal-image {
-    min-height: 380px;
-    background-size: 85%;
+@media (min-width: 992px) {
+  .seal-image-desktop {
+    min-height: 430px;
+    background-image: -webkit-image-set(
+      url("../images/seal-desktop-1920px.webp?v=1") 1x,
+      url("../images/seal-desktop-1920px-ret.webp?v=1") 2x
+    );
+    background-image: image-set(
+      url("../images/seal-desktop-1920px.webp?v=1") 1x,
+      url("../images/seal-desktop-1920px-ret.webp?v=1") 2x
+    );
   }
 }
 
@@ -157,12 +158,11 @@
   display: block;
 }
 
-@media (min-width: 62rem) {
-  .bio-layout {
-    display: grid;
-    grid-template-columns: 1fr 1fr;
-    gap: 0;
-    align-items: stretch;
+.bio-text {
+  @apply stage2:max-w-105;
+
+  @media (min-width: 1440px) {
+    @apply stage2:max-w-135;
   }
 }
 
@@ -170,16 +170,16 @@
 .services-grid {
   display: grid;
   grid-template-columns: 1fr;
-  gap: 1.5rem;
+  gap: 24px;
 }
 
-@media (min-width: 40rem) {
+@media (min-width: 992px) {
   .services-grid {
     grid-template-columns: repeat(2, 1fr);
   }
 }
 
-@media (min-width: 62rem) {
+@media (min-width: 1440px) {
   .services-grid {
     grid-template-columns: repeat(4, 1fr);
   }
@@ -196,7 +196,7 @@
   gap: 1.5rem;
 }
 
-@media (min-width: 62rem) {
+@media (min-width: 992px) {
   .process-grid {
     grid-template-columns: repeat(3, 1fr);
   }

diff --git a/tailwind.config.js b/tailwind.config.js
@@ -9,33 +9,36 @@ module.exports = {
       colors: {
         brand: {
           // Zelená
-          "green": "#219653", // primary
+          green: "#219653", // primary
           "green-dark": "#00642B", // hover / dark variant
           "green-light": "#2DCB48", // accent / highlight
 
           // Neutrální
-          "white": "#FFFFFF",
-          "gray": "#F2F2F2", // pozadí / surface
+          white: "#FFFFFF",
+          gray: "#F2F2F2", // pozadí / surface
           "gray-mid": "#E0E0E0", // border
           "gray-dark": "#4F4F4F", // sekundární text
-          "dark": "#333333", // hlavní text
+          dark: "#333333", // hlavní text
         },
       },
 
       // ── TYPOGRAFIE ───────────────────────────
       fontSize: {
         // [velikost, { lineHeight }]
-        "display": ["56px", { lineHeight: "65px", fontWeight: "700", letterSpacing: "-1px" }],
-        "h1": ["40px", { lineHeight: "48px", fontWeight: "700" }],
-        "h2": ["32px", { lineHeight: "38px", fontWeight: "700" }],
-        "h3": ["24px", { lineHeight: "32px", fontWeight: "700" }],
-        "h4": ["18px", { lineHeight: "28px", fontWeight: "600" }],
-        "h5": ["16px", { lineHeight: "24px", fontWeight: "600" }],
-        "h6": ["14px", { lineHeight: "20px", fontWeight: "500" }],
+        display: [
+          "56px",
+          { lineHeight: "65px", fontWeight: "700", letterSpacing: "-1px" },
+        ],
+        h1: ["40px", { lineHeight: "48px", fontWeight: "700" }],
+        h2: ["32px", { lineHeight: "38px", fontWeight: "700" }],
+        h3: ["24px", { lineHeight: "32px", fontWeight: "700" }],
+        h4: ["18px", { lineHeight: "28px", fontWeight: "600" }],
+        h5: ["16px", { lineHeight: "24px", fontWeight: "600" }],
+        h6: ["14px", { lineHeight: "20px", fontWeight: "500" }],
         "body-lg": ["18px", { lineHeight: "28px" }],
-        "body": ["16px", { lineHeight: "24px" }],
+        body: ["16px", { lineHeight: "24px" }],
         "body-sm": ["14px", { lineHeight: "20px" }],
-        "caption": ["12px", { lineHeight: "20px" }],
+        caption: ["12px", { lineHeight: "20px" }],
       },
     },
   },
